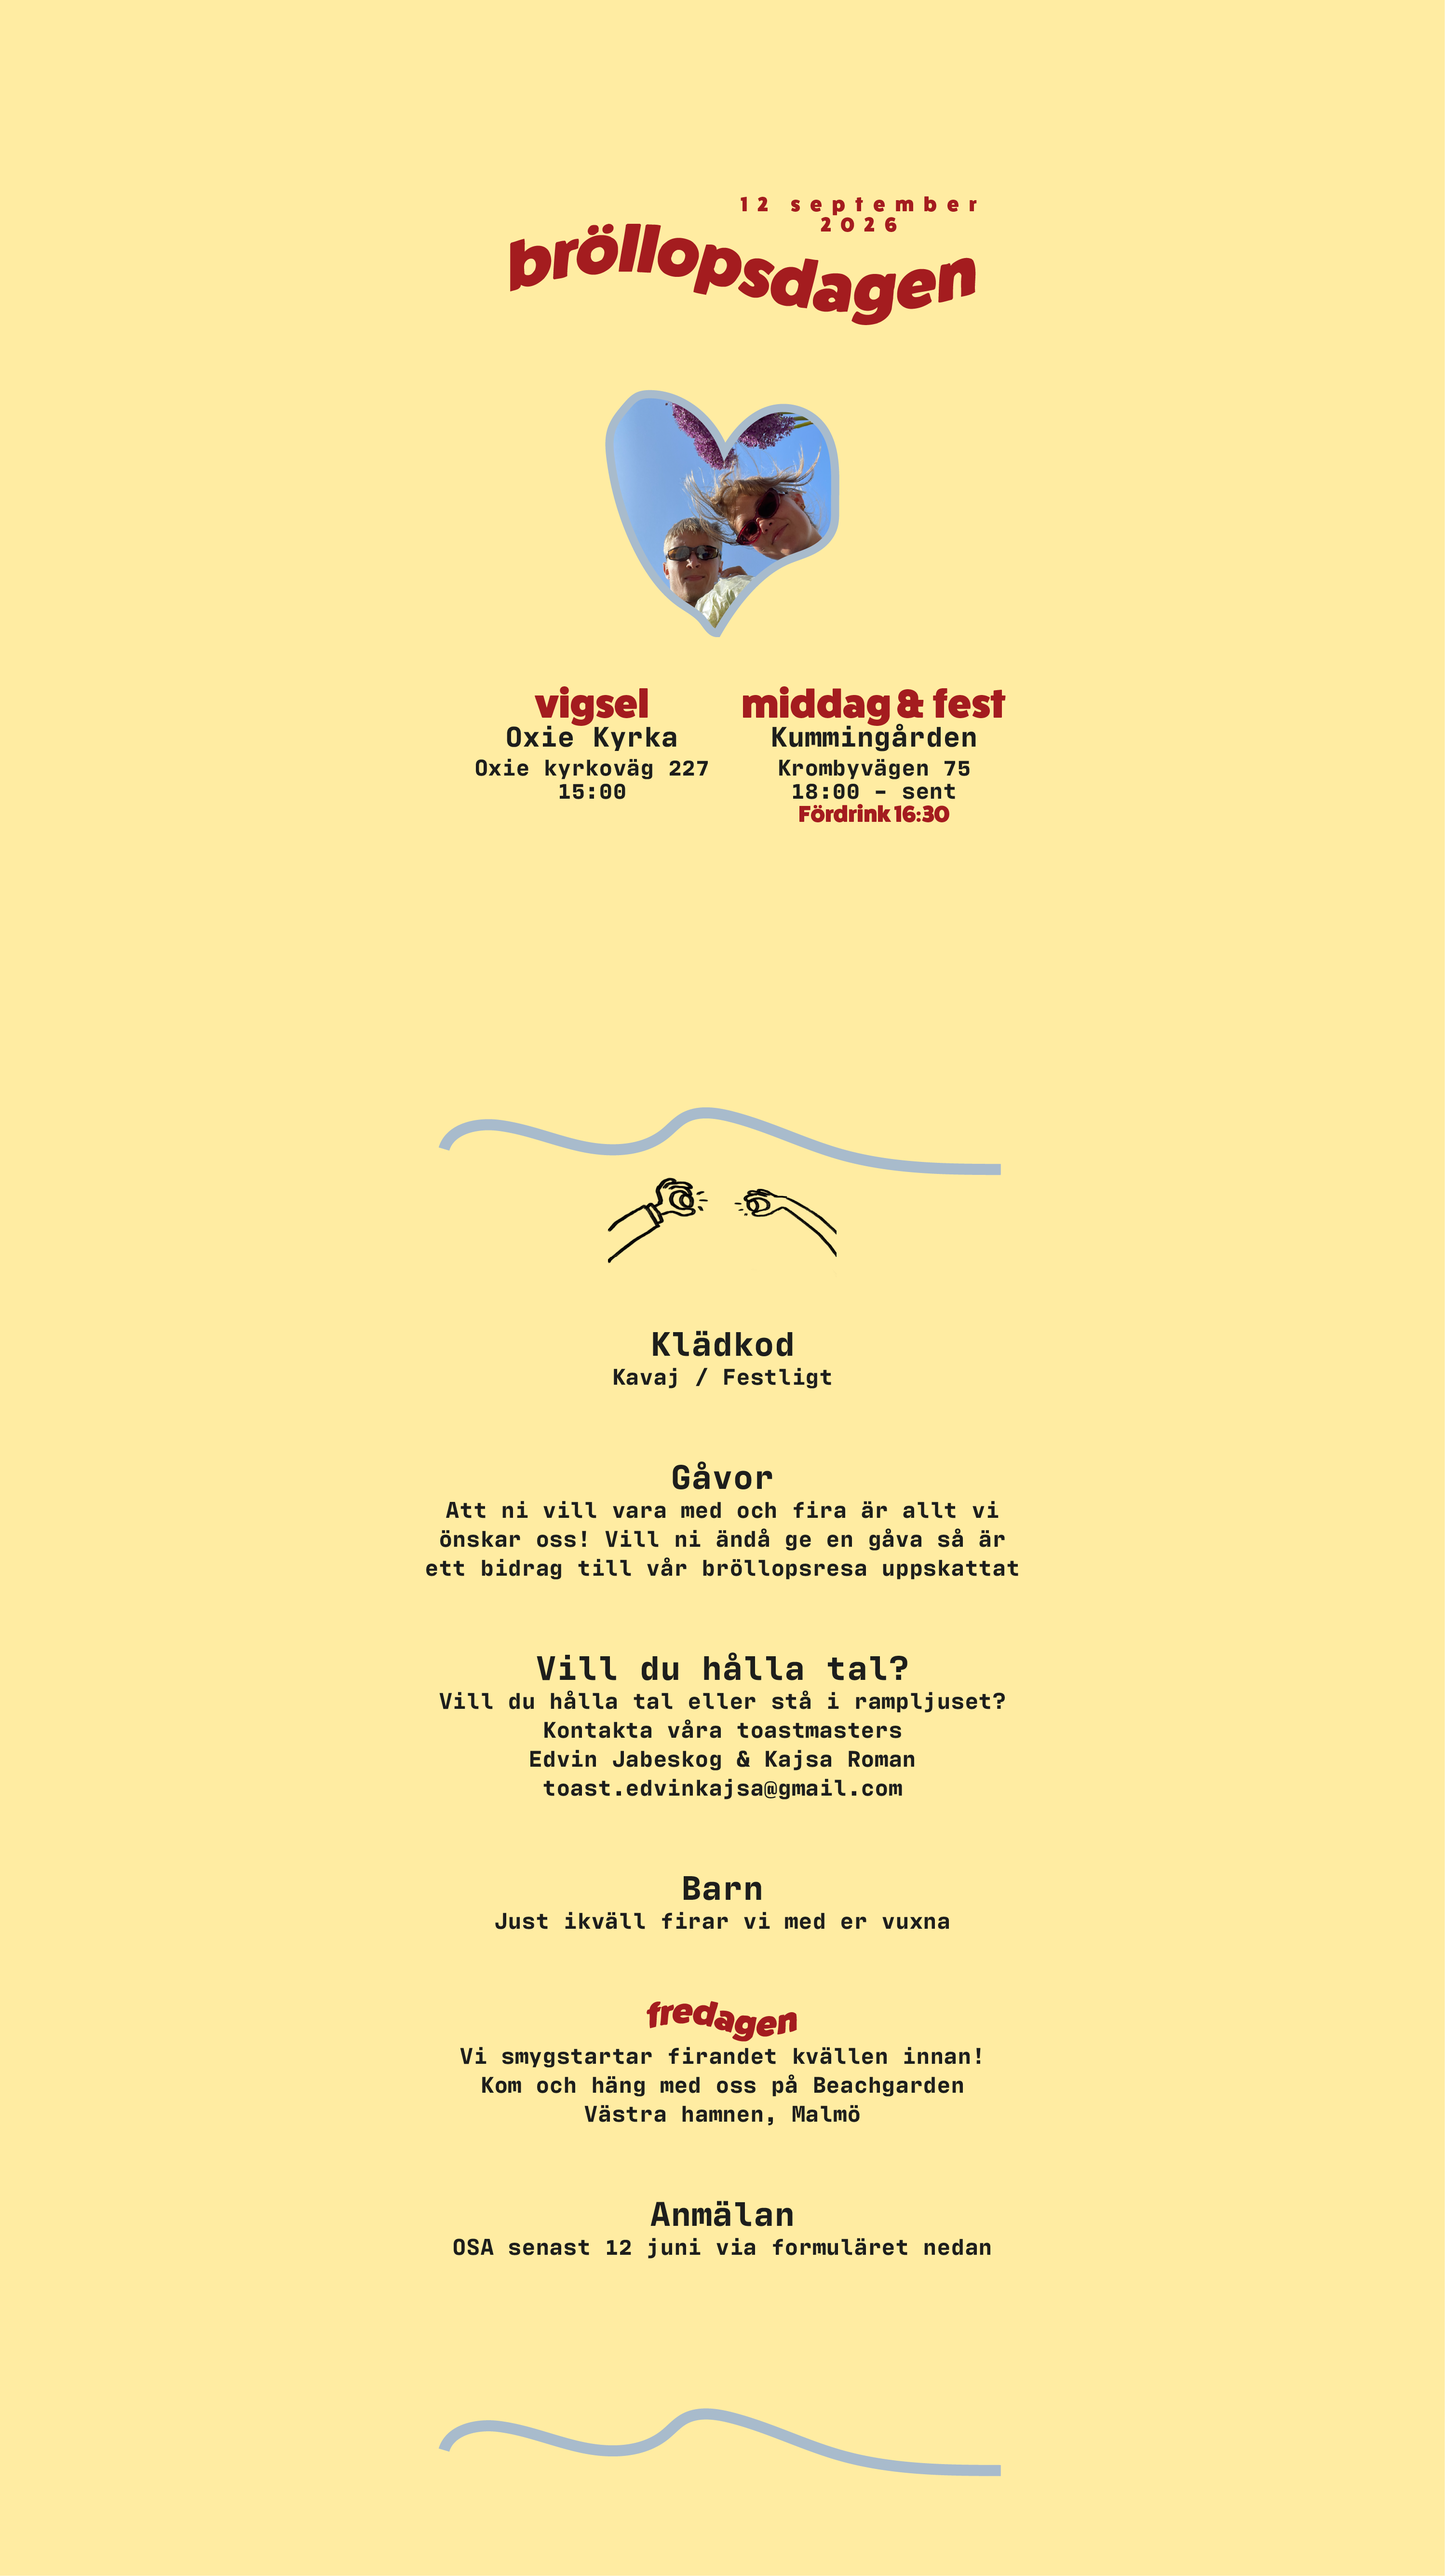
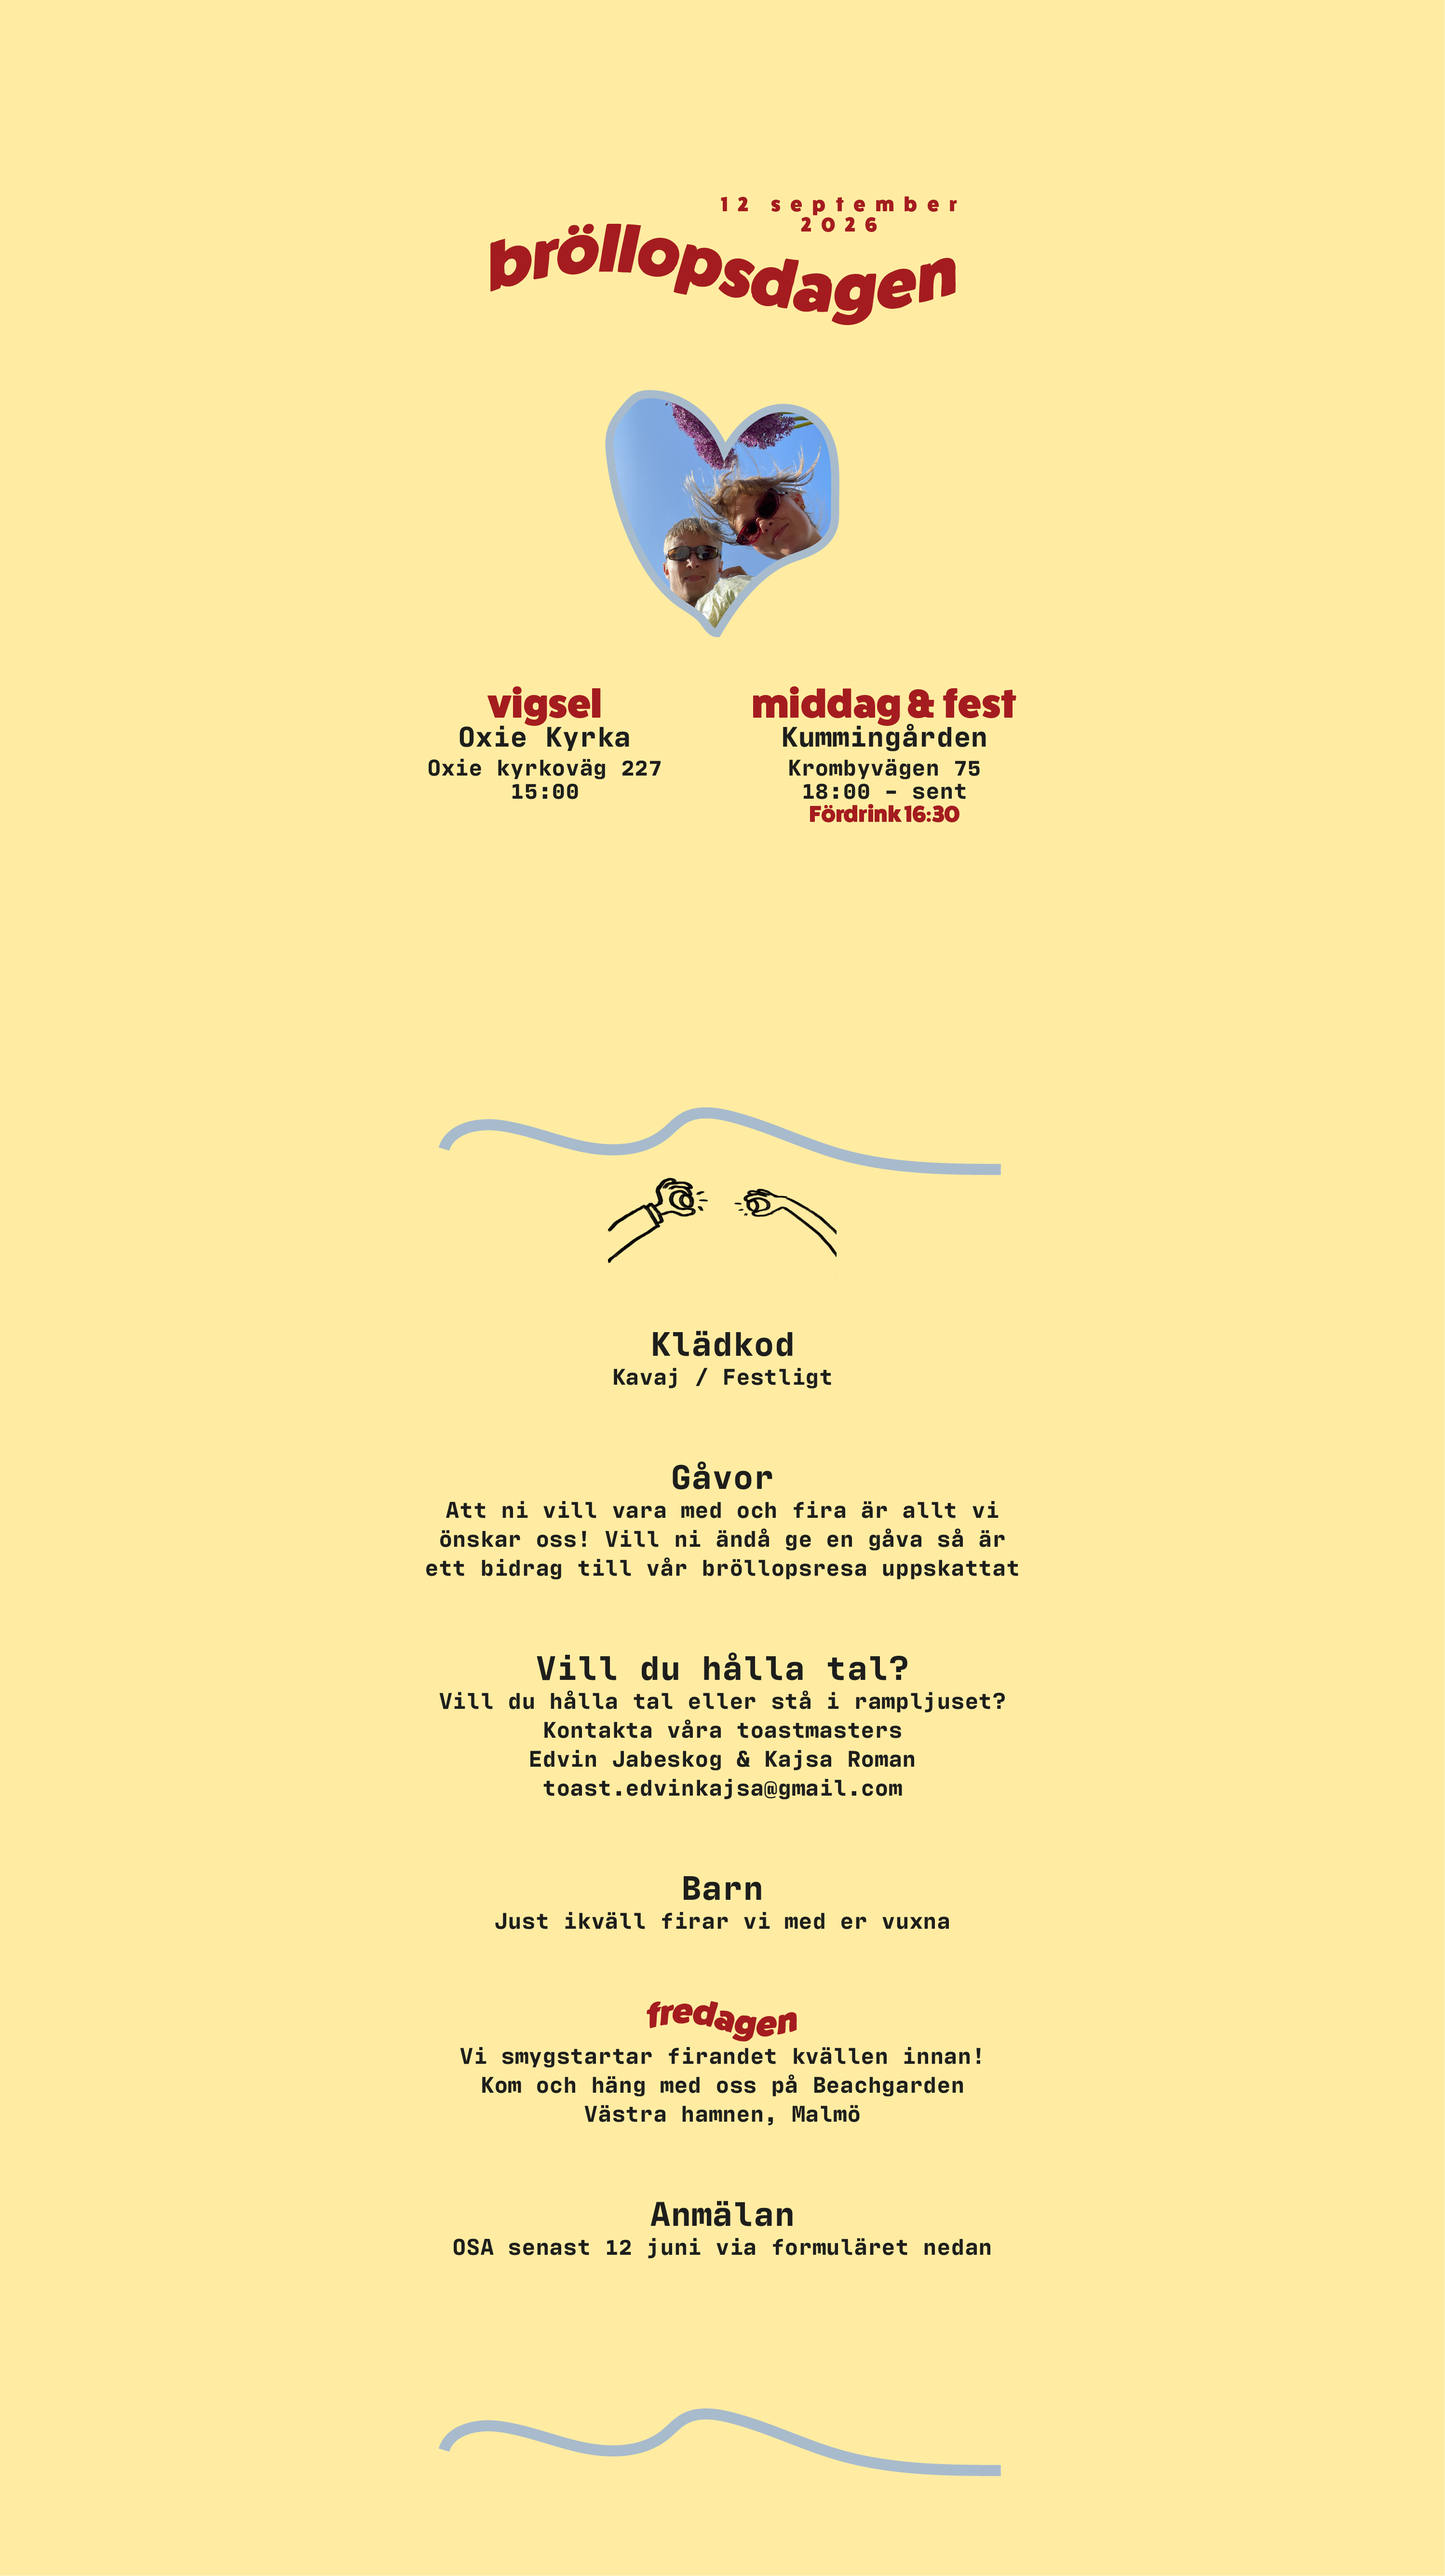
Add files via upload

Changed region(s): [[0.5275, 0.2486, 0.7137, 0.3419], [0.3413, 0.0622, 0.6827, 0.1243], [0.3103, 0.2486, 0.4655, 0.3108]]

diff --git a/index.html b/index.html
@@ -67,17 +67,17 @@
 
       .container img {
         width: 210%;
-        margin-left: -60%;
+        margin-left: -55%;
       }
 
       .button-container {
-        bottom: 8%;
+        bottom: 10%;
       }
 
       .osa-button {
-        font-size: 8px;
-        padding: 6px 15px;
-        border-radius: 5px;
+        font-size: 10px;
+        padding: 8px 17px;
+        border-radius: 10px;
       }
 
     }
